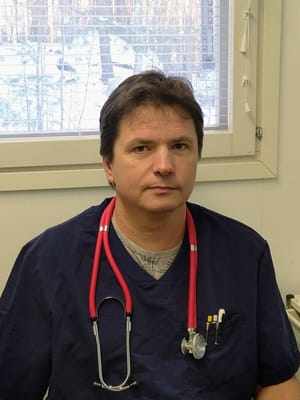
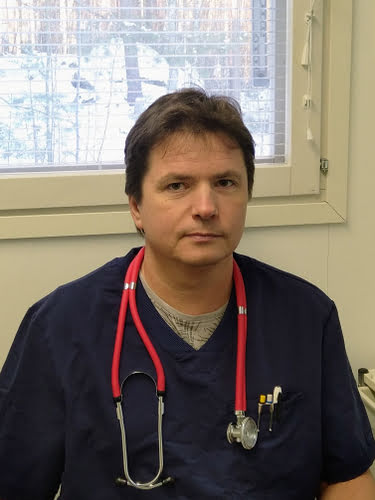
optimize image + jxl

diff --git a/ru/index.html b/ru/index.html
@@ -138,9 +138,9 @@
 									onclick="window.open('/assets/ovi.jpg')"
 									style="cursor: pointer"
 								>
-									<!-- <source srcset="/assets/image.min.webp" type="image/webp" />
-									<source srcset="/assets/image.min.avif" type="image/avif" /> -->
-									<img src="/assets/ovi.jpg" />
+									<source srcset="/assets/ovi.min.jxl" type="image/jxl" />
+									<source srcset="/assets/ovi.min.webp" type="image/webp" />
+									<img src="/assets/ovi.min.jpg" />
 								</picture>
 							</div>
 						</div>
@@ -179,13 +179,10 @@
 				</div>
 				<div class="col">
 					<div class="info">
-						<picture
-							onclick="window.open('../assets/image.png')"
-							style="cursor: pointer"
-						>
-							<source srcset="../assets/image.min.webp" type="image/webp" />
-							<source srcset="../assets/image.min.avif" type="image/avif" />
-							<img src="../assets/image.min.jpg" />
+						<picture onclick="window.open('/assets/image.png')" style="cursor: pointer">
+							<source srcset="/assets/image.min.jxl" type="image/jxl" />
+							<source srcset="/assets/image.min.webp" type="image/webp" />
+							<img src="/assets/image.min.jpg" />
 						</picture>
 
 						<div

diff --git a/index.html b/index.html
@@ -134,9 +134,9 @@
 									onclick="window.open('/assets/ovi.jpg')"
 									style="cursor: pointer"
 								>
-									<!-- <source srcset="/assets/image.min.webp" type="image/webp" />
-									<source srcset="/assets/image.min.avif" type="image/avif" /> -->
-									<img src="/assets/ovi.jpg" />
+									<source srcset="/assets/ovi.min.jxl" type="image/jxl" />
+									<source srcset="/assets/ovi.min.webp" type="image/webp" />
+									<img src="/assets/ovi.min.jpg" />
 								</picture>
 							</div>
 						</div>
@@ -183,8 +183,8 @@
 				<div class="col">
 					<div class="info">
 						<picture onclick="window.open('/assets/image.png')" style="cursor: pointer">
+							<source srcset="/assets/image.min.jxl" type="image/jxl" />
 							<source srcset="/assets/image.min.webp" type="image/webp" />
-							<source srcset="/assets/image.min.avif" type="image/avif" />
 							<img src="/assets/image.min.jpg" />
 						</picture>
 
